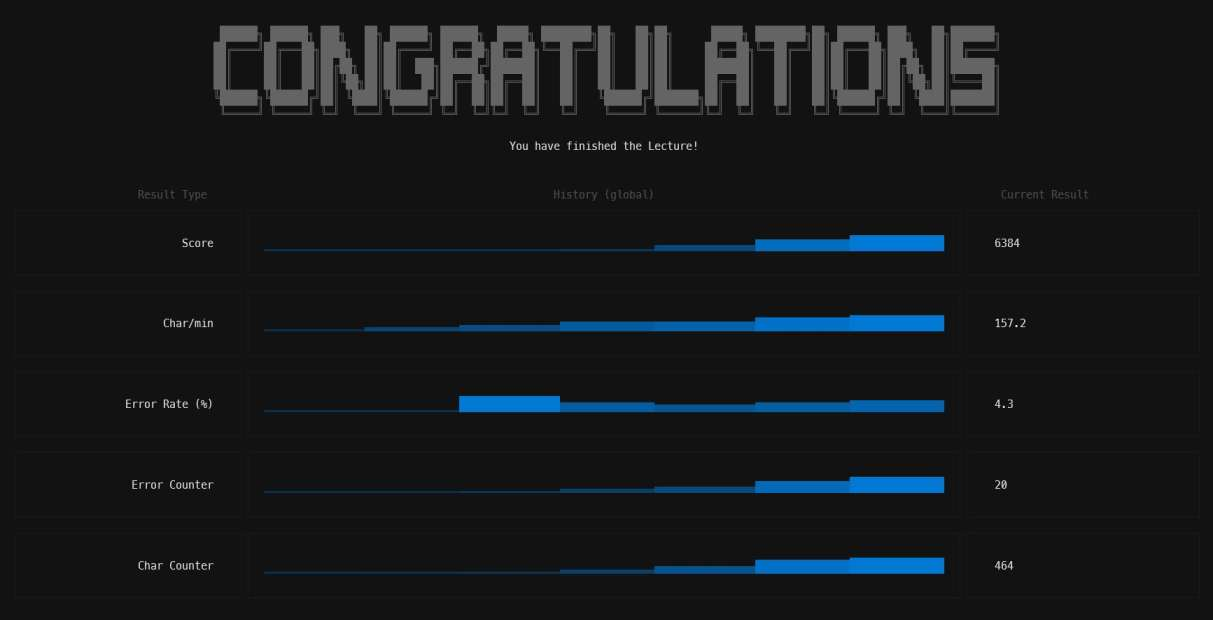
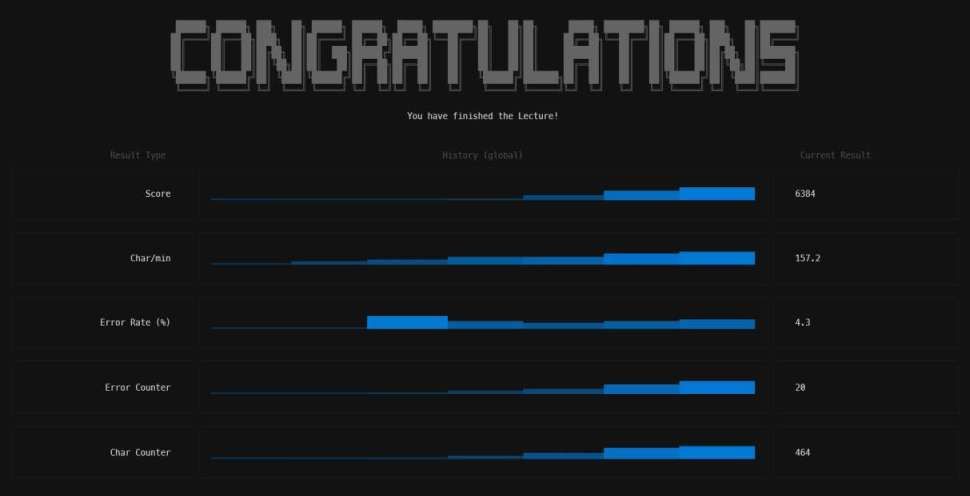
fix image size in readme

diff --git a/README.md b/README.md
@@ -21,7 +21,7 @@ This Application is for people who wants to learn or improve there ten fingers t
 You can use your own texts or scripts in your favorite programming language with common syntax highlighting to get faster and more efficient in your everyday working.
 
 <div align="center">
-    <img src="crustacea.jpg" alt="Logo" width="924" height="751">
+    <img src="crustacea.jpg" alt="Logo">
 </div>
 
 #### It provides the following features:
@@ -95,7 +95,7 @@ In the Footer you see all the options which can be toggled with keyboard shortcu
 Your current statistics will be shown above the footer line.
 Your history and progress will be visualized at the end of each lecture:
 <div align="center">
-    <img src="results_vis.jpg" alt="Logo" width="1213" height="620">
+    <img src="results_vis.jpg" alt="Logo">
 </div>
 
 
